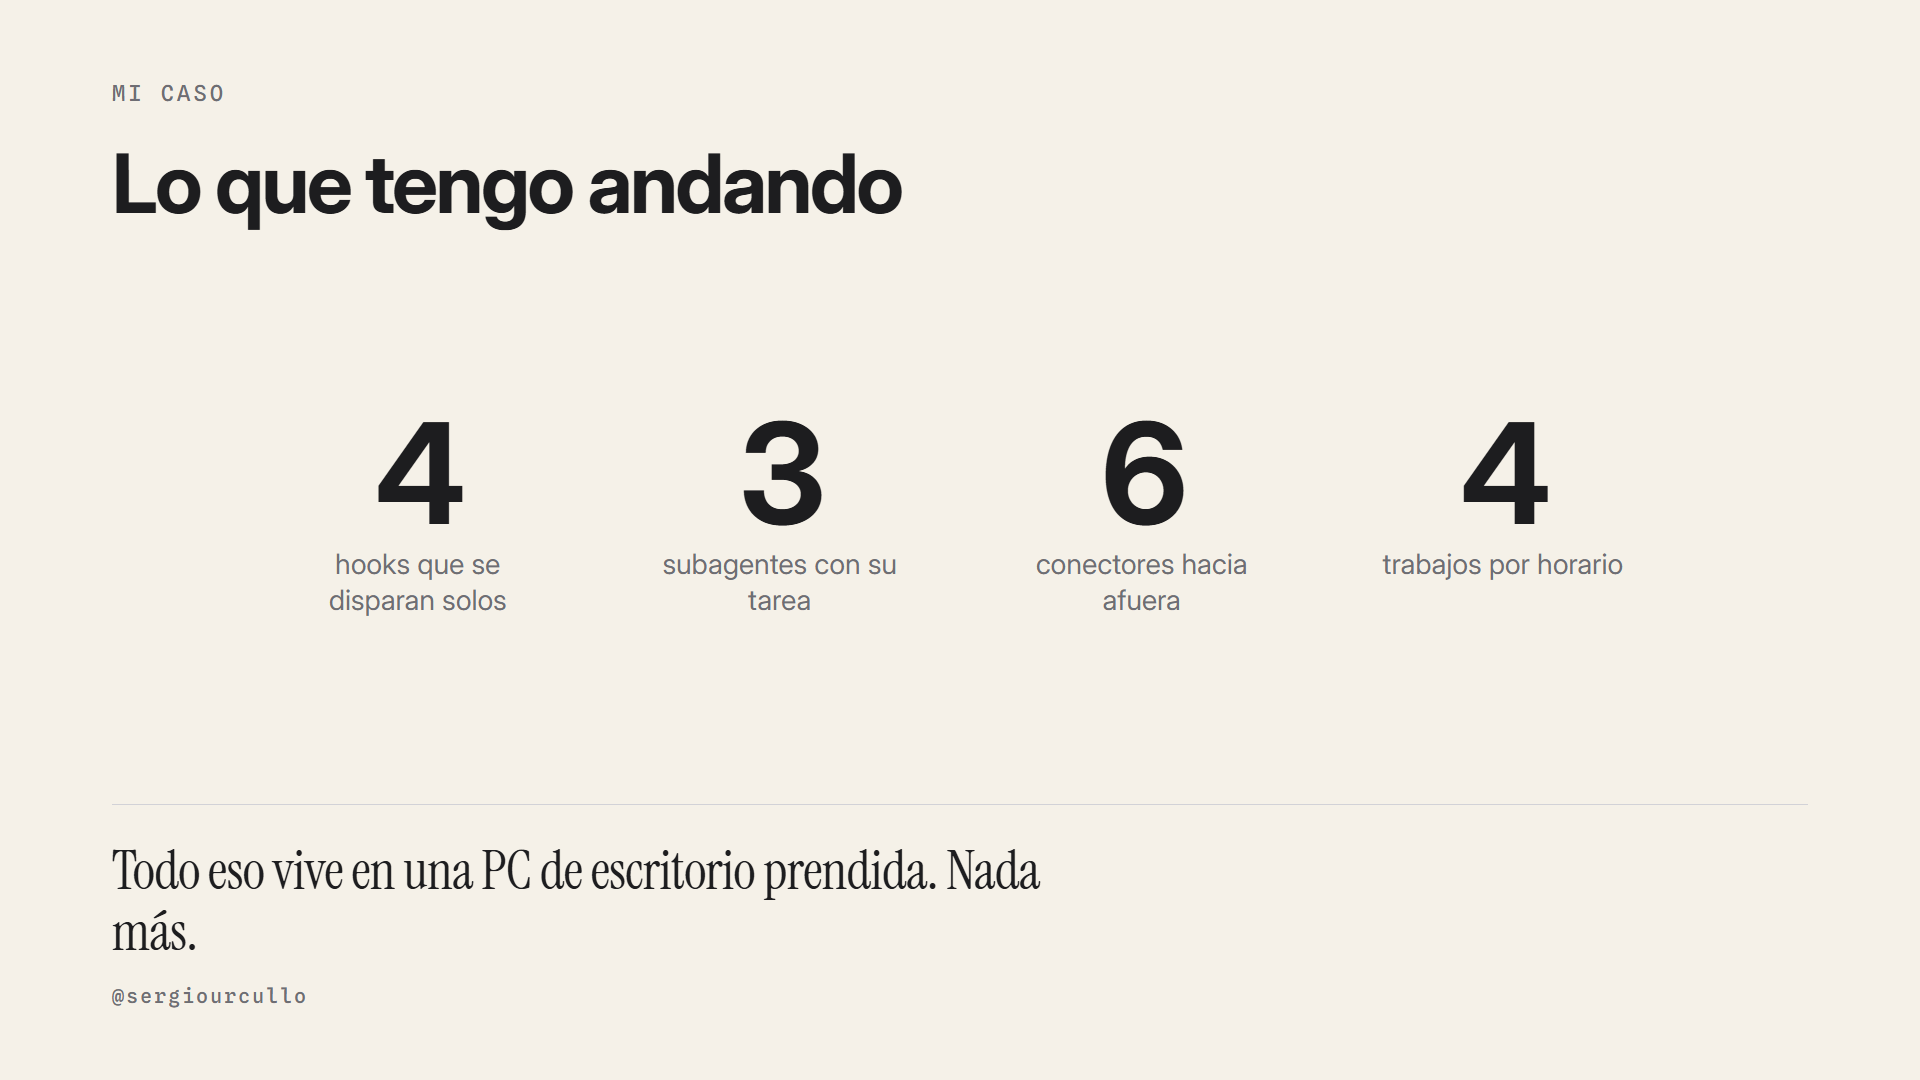
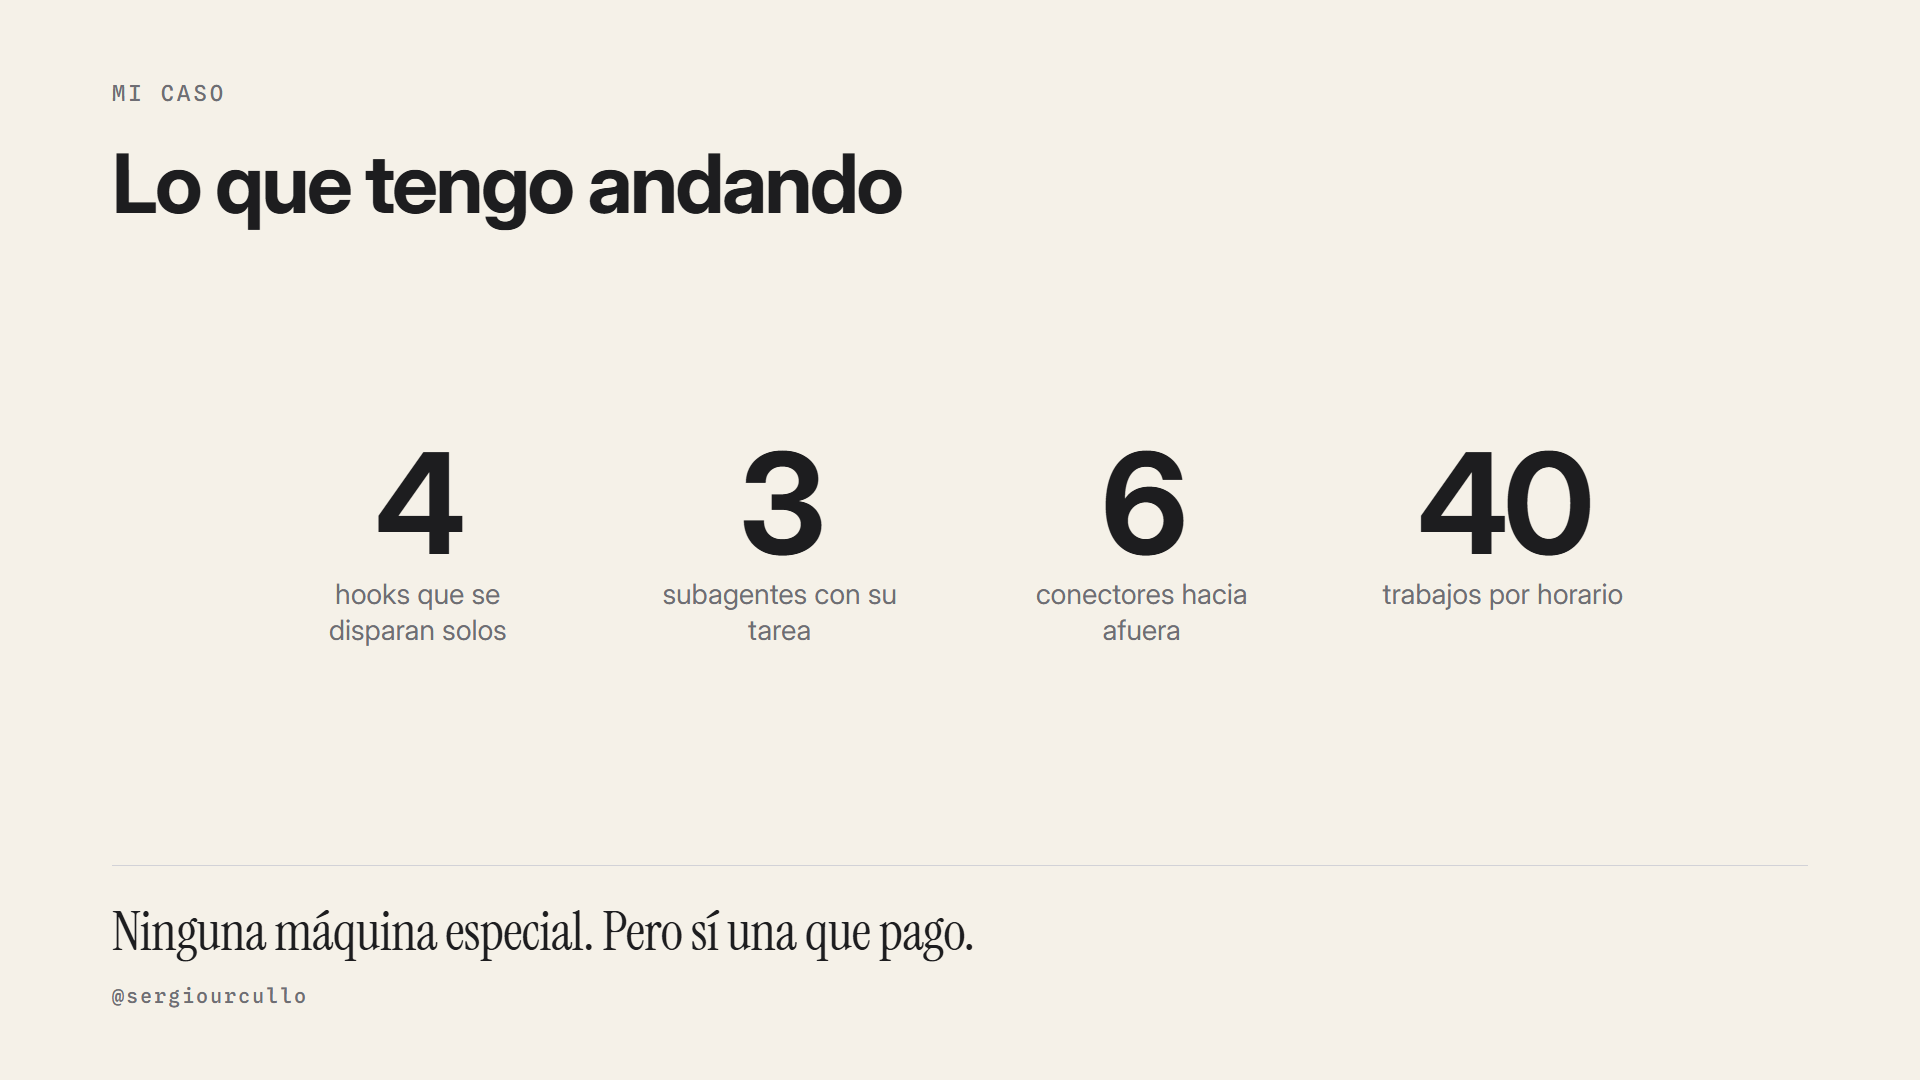
fix(yt-03): lamina 8 del deck con los numeros medidos el 18-sep
4 hooks, 3 subagentes, 6 conectores y 40 trabajos por horario (VPS,
uptime 25 dias). El remate deja de afirmar 'una PC de escritorio
prendida' -- falso, medido -- y pasa a 'Ninguna maquina especial.
Pero si una que pago'. La revelacion del nodo-casa muerto queda para
la lamina 9, que es donde el video la usa.

PNG regenerado con Playwright y MIRADO renderizado; diseño intacto.

diff --git a/hermes-content/carousels/out/yt-claude-code-automatizacion/deck.html b/hermes-content/carousels/out/yt-claude-code-automatizacion/deck.html
@@ -304,7 +304,7 @@ body.limpio #chrome{display:none}
 </section>
 
 <!-- 08 · MI CASO ───────────────────────────────────────────────── -->
-<section class="lamina" data-nota="<b>LA PRUEBA, AHORA EXPLICADA.</b> En el video 1 esto era magia; hoy tiene nombre. Decí que la máquina no es especial: es una PC de escritorio prendida, y eso es todo lo que hace falta.">
+<section class="lamina" data-nota="<b>LA PRUEBA, AHORA EXPLICADA.</b> En el video 1 esto era magia; hoy tiene nombre. Los 40 son del VPS (medido 18-sep, uptime 25 días). NO digas «mi casa»: el nodo-casa no tiene cron. Deja el remate corto — la falla se revela en la lámina 9.">
   <div class="eyebrow">Mi caso</div>
   <h1 class="chico">Lo que tengo andando</h1>
   <div class="arte">
@@ -312,10 +312,10 @@ body.limpio #chrome{display:none}
       <div class="cifra"><b>4</b><span>hooks que se disparan solos</span></div>
       <div class="cifra"><b>3</b><span>subagentes con su tarea</span></div>
       <div class="cifra"><b>6</b><span>conectores hacia afuera</span></div>
-      <div class="cifra"><b>4</b><span>trabajos por horario</span></div>
+      <div class="cifra"><b>40</b><span>trabajos por horario</span></div>
     </div>
   </div>
-  <div class="remate">Todo eso vive en una PC de escritorio prendida. Nada más.</div>
+  <div class="remate">Ninguna máquina especial. Pero sí una que pago.</div>
   <div class="handle">@sergiourcullo</div>
 </section>
 
